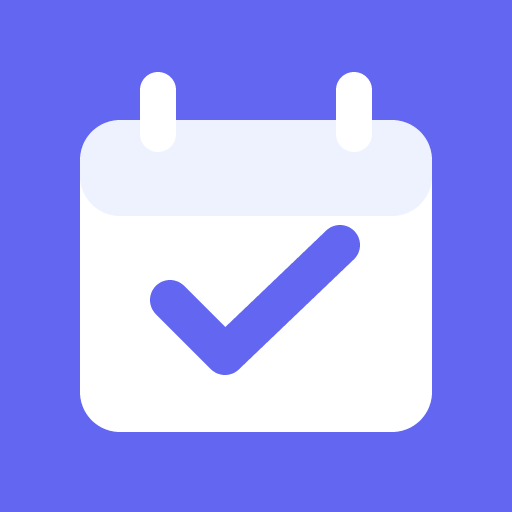
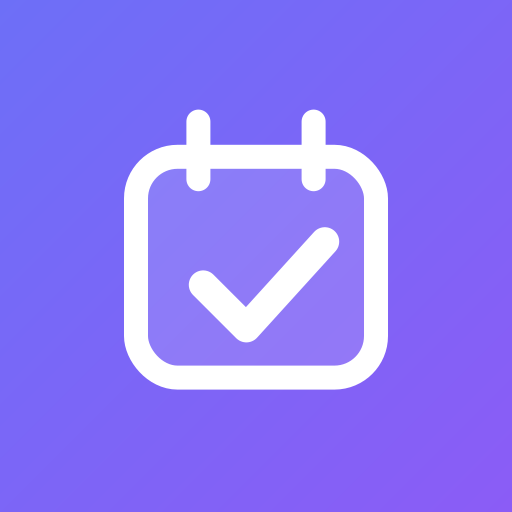
새 앱 아이콘 + UI 크롬 이모지 전수 교체 (#77)
앱 아이콘:
- 새 UI 톤에 맞춘 라인 스타일 재디자인 — 인디고→바이올렛 그라데이션
  배경 + 스트로크 캘린더 + 체크마크
- icon.svg 교체, icon-192/512/512-maskable PNG 재생성
  (마스커블은 안전영역 80% 준수)

이모지 → SVG 아이콘 (심볼 3종 추가: skip/eye-off/check):
- 태스크 트레이 메뉴 7종(포모도로/수정/이동/미루기/댓글/팀등록/삭제)
- 태스크 ⋯ 버튼, 메모 버튼, 수락/거절, 복구, 날짜 선택
- 메모장(스티키 노트) 버튼 8종, 메모장 메뉴 3종
- 공유 보는중/숨김, ICS 새로고침/가져오기, 팀 모달·구독 토글
- 대시보드 패널 제목 4종, 시간 미지정, 태그바
- 유지: 상태 피드백(✅⏳❌⚠), 날씨, 축하, 휴무일 🏖 등 표현용

Claude-Session: https://claude.ai/code/session_016onr4BnF2RkRCxVgr7Rsj4

diff --git a/app.js b/app.js
@@ -245,7 +245,7 @@ if (!USER_ID) {
     });
   };
   document.getElementById('switchUserBtn').style.display = 'flex';
-  document.getElementById('switchUserBtn').innerHTML = '↩ <span>내 캘린더로</span>';
+  document.getElementById('switchUserBtn').innerHTML = '<svg class="ic" width="14" height="14"><use href="#i-switch"/></svg> <span>내 캘린더로</span>';
   document.getElementById('switchUserBtn').onclick = () => {
     const last = localStorage.getItem('lastUser');
     window.location.href = window.location.pathname + (last ? `?u=${encodeURIComponent(last)}` : '');
@@ -1052,7 +1052,7 @@ function renderTrashModal(){
     info.appendChild(el('div','trash-meta',{textContent:`${d.getMonth()+1}/${d.getDate()} 삭제 · ${daysLeft}일 후 사라져요`}));
     row.appendChild(info);
     const actions=el('div','trash-actions');
-    const restoreBtn=el('button','trash-act-btn',{textContent:'↩ 복구'});
+    const restoreBtn=el('button','trash-act-btn',{innerHTML:'<svg class="ic" width="12" height="12"><use href="#i-switch"/></svg> 복구'});
     restoreBtn.onclick=()=>restoreFromTrash(item.id);
     const delBtn=el('button','trash-act-btn del',{textContent:'✕'});
     delBtn.onclick=()=>{ if(confirm('영구 삭제할까요?')) permanentDeleteTrash(item.id); };
@@ -1111,7 +1111,7 @@ function moveRepeatInstanceOne(originDk, taskId, instanceDk, toDk){
 // 반복 일정 이동 범위 묻기: 'one'(이 회차만) / 'all'(전체 시작일 변경) / null(취소)
 function askRepeatMoveScope(cb){
   const ov=el('div','modal-overlay'); const box=el('div','modal-box'); box.style.maxWidth='320px';
-  box.appendChild(el('div','modal-title',{textContent:'🔄 반복 일정 이동'}));
+  box.appendChild(el('div','modal-title',{innerHTML:'<svg class="ic" width="15" height="15"><use href="#i-repeat"/></svg> 반복 일정 이동'}));
   box.appendChild(el('div','',{textContent:'이 회차만 옮길까요, 반복 전체를 옮길까요?',style:'font-size:13px;color:var(--text2);margin-bottom:12px'}));
   const mk=(label,sub,fn,primary)=>{ const b=el('button',primary?'btn-primary':'btn-secondary',{type:'button'}); b.style.cssText='width:100%;margin-bottom:8px;text-align:left;padding:10px 12px'; b.appendChild(el('div','',{textContent:label,style:'font-weight:600'})); b.appendChild(el('div','',{textContent:sub,style:'font-size:11px;opacity:.8;margin-top:2px'})); b.onclick=()=>{ov.remove();fn();}; return b; };
   box.appendChild(mk('이 회차만 이동','선택한 날짜에 단발 일정으로 (반복은 유지)',()=>cb('one'),true));
@@ -1166,7 +1166,7 @@ function openMovePopup(anchor, fromDk, taskId, repCtx){
     if(!inp.value) return;
     commit(inp.value);
   };
-  pickBtn.appendChild(el('span',null,{textContent:'🗓'}));
+  const _pi=el('span'); _pi.innerHTML='<svg class="ic" width="13" height="13"><use href="#i-calendar"/></svg>'; pickBtn.appendChild(_pi);
   pickBtn.appendChild(el('span',null,{textContent:'날짜 선택'}));
   pickBtn.appendChild(inp);
   pickBtn.onclick=e=>{e.stopPropagation();inp.showPicker&&inp.showPicker();};
@@ -2040,7 +2040,7 @@ function buildTaskItem(dk,task,isSub,parentId,isRepeatInst,originDk,instanceDk,a
   textWrap.appendChild(txt);
   if(!isSub){
     const hasMemo=!!(task.memo&&task.memo.trim());
-    const memoBtn=el('span',`memo-icon-btn${hasMemo?' has':''}`,{textContent:'📝',title:hasMemo?'메모 보기/편집':'메모 추가'});
+    const memoBtn=el('span',`memo-icon-btn${hasMemo?' has':''}`,{title:hasMemo?'메모 보기/편집':'메모 추가'}); memoBtn.innerHTML='<svg class="ic" width="13" height="13"><use href="#i-note"/></svg>';
     memoBtn.setAttribute('role','button'); memoBtn.tabIndex=0;
     const openMemoH=e=>{e.stopPropagation();openMemo(isRepeatInst?originDk:dk,task.id,memoBtn);};
     memoBtn.onclick=openMemoH; addKbd(memoBtn,openMemoH);
@@ -2090,9 +2090,9 @@ function buildTaskItem(dk,task,isSub,parentId,isRepeatInst,originDk,instanceDk,a
     body.appendChild(el('div','from-badge',{textContent:'👤 '+task.from+'님이 보냄'}));
     if(task.pending&&!READ_ONLY){
       const ar=el('div','accept-row');
-      const ok=el('button','accept-btn',{textContent:'✅ 수락'});
+      const ok=el('button','accept-btn',{innerHTML:'<svg class="ic" width="12" height="12"><use href="#i-check"/></svg> 수락'});
       ok.onclick=e=>{e.stopPropagation();acceptTask(dk,task.id);};
-      const no=el('button','reject-btn',{textContent:'🚫 거절'});
+      const no=el('button','reject-btn',{innerHTML:'<svg class="ic" width="12" height="12"><use href="#i-x"/></svg> 거절'});
       no.onclick=e=>{e.stopPropagation();rejectTask(dk,task.id);};
       ar.appendChild(ok); ar.appendChild(no); body.appendChild(ar);
     }
@@ -2142,27 +2142,27 @@ function buildTaskItem(dk,task,isSub,parentId,isRepeatInst,originDk,instanceDk,a
 
   // 상위 항목: 기능 아이콘들을 ⋯ 트레이(드롭다운)로 모아 가로 공간 확보
   const actionsWrap=el('div','task-actions-wrap');
-  const moreBtn=el('button','task-more-btn',{textContent:'⋯',title:'작업 메뉴'});
+  const moreBtn=el('button','task-more-btn',{title:'작업 메뉴'}); moreBtn.innerHTML='<svg class="ic" width="15" height="15"><use href="#i-more"/></svg>';
   moreBtn.setAttribute('aria-label','작업 메뉴 열기');
   const tray=el('div','task-actions-tray hidden');
   const closeTray=()=>tray.classList.add('hidden');
   const trayItem=(icon,label,extraCls,handler)=>{
     const b=el('button',`tray-item${extraCls?' '+extraCls:''}`,{type:'button'});
-    b.appendChild(el('span','tray-ico',{textContent:icon}));
+    const _ti=el('span','tray-ico'); _ti.innerHTML=`<svg class="ic" width="14" height="14"><use href="#i-${icon}"/></svg>`; b.appendChild(_ti);
     b.appendChild(el('span',null,{textContent:label}));
     b.onclick=e=>{e.stopPropagation();closeTray();handler(e);};
     tray.appendChild(b);
     return b;
   };
-  trayItem('🍅','포모도로 시작',null,()=>startPomodoroForTask(task.text));
-  trayItem('✏','수정',null,()=>openEdit(dk,task,isRepeatInst,originDk));
-  trayItem('📅','다른 날짜로 이동',null,()=>{
+  trayItem('timer','포모도로 시작',null,()=>startPomodoroForTask(task.text));
+  trayItem('pencil','수정',null,()=>openEdit(dk,task,isRepeatInst,originDk));
+  trayItem('calendar','다른 날짜로 이동',null,()=>{
     openMovePopup(actionsWrap, dk, task.id, isRepeatInst?{isRepeatInst:true, originDk, instanceDk}:null);
   });
-  if(!isRepeatInst) trayItem('⏭','다음 영업일로 미루기',null,()=>postponeTask(dk,task.id));
-  trayItem('💬','댓글',null,()=>openComments(dk,task.id,isRepeatInst,originDk));
-  if(!IS_TEAM && fbDb) trayItem('🤝','팀에 등록',null,()=>registerTaskToTeam(dk,task,isRepeatInst,originDk));
-  trayItem('✕','삭제','del',()=>{
+  if(!isRepeatInst) trayItem('skip','다음 영업일로 미루기',null,()=>postponeTask(dk,task.id));
+  trayItem('msg','댓글',null,()=>openComments(dk,task.id,isRepeatInst,originDk));
+  if(!IS_TEAM && fbDb) trayItem('users','팀에 등록',null,()=>registerTaskToTeam(dk,task,isRepeatInst,originDk));
+  trayItem('x','삭제','del',()=>{
     if(isRepeatInst||(task.repeat&&task.repeat!=='none')){
       openRepeatDel(isRepeatInst?originDk:dk, task.id, dk);
     } else if(confirm('삭제할까요?')) {
@@ -2530,7 +2530,7 @@ function buildTimeblockView(){
   // 시간 미지정 항목
   if(untimed.length){
     const ut=el('div','tb-untimed');
-    ut.appendChild(el('div','tb-untimed-title',{textContent:'🕒 시간 미지정'}));
+    ut.appendChild(el('div','tb-untimed-title',{innerHTML:'<svg class="ic" width="12" height="12"><use href="#i-clock"/></svg> 시간 미지정'}));
     const ul=el('div','tasks-list');
     untimed.forEach(({t,isRepeat,originDk,instanceDk})=>ul.appendChild(buildTaskItem(dk,t,false,null,isRepeat,originDk,instanceDk)));
     ut.appendChild(ul);
@@ -2875,7 +2875,7 @@ function buildTagFilterBar(){
   }
   // 태그 칩 (태그가 있을 때만)
   if(tags.length){
-    bar.appendChild(el('span','',{textContent:'🏷',style:'font-size:12px;margin-left:6px'}));
+    const _tg=el('span','',{style:'margin-left:6px;color:var(--text3)'}); _tg.innerHTML='<svg class="ic" width="12" height="12"><use href="#i-tag"/></svg>'; bar.appendChild(_tg);
     const allChip = el('button', `tag-filter-chip${tagFilter ? '' : ' active'}`, {textContent: '전체'});
     allChip.onclick = () => { tagFilter = null; render(); };
     bar.appendChild(allChip);
@@ -4242,14 +4242,14 @@ function buildNoteWin(m) {
     crumb.onclick = e => { e.stopPropagation(); navigateNote(m.id, m.parentId); };
     head.appendChild(crumb);
   } else {
-    head.appendChild(el('span', 'memo-icon', {textContent: '📝'}));
+    const _mi=el('span','memo-icon'); _mi.innerHTML='<svg class="ic" width="15" height="15"><use href="#i-note"/></svg>'; head.appendChild(_mi);
   }
   const title = el('input', 'note-title-input');
   title.type = 'text'; title.placeholder = '제목'; title.value = m.title; title.readOnly = READ_ONLY;
   title.addEventListener('input', () => { m.title = title.value; clearTimeout(_noteTitleTimer); _noteTitleTimer = setTimeout(saveMemos, 400); });
   head.appendChild(title);
   if (!READ_ONLY) {
-    const colorBtn = el('button', 'note-btn', {textContent: '🎨', title: '색상 변경'});
+    const colorBtn = el('button','note-btn',{innerHTML:'<svg class="ic" width="13" height="13"><use href="#i-palette"/></svg>',title:'색상 변경'});
     colorBtn.onclick = e => {
       e.stopPropagation();
       const i = NOTE_COLORS.indexOf(m.color);
@@ -4258,7 +4258,7 @@ function buildNoteWin(m) {
       saveMemos();
     };
     head.appendChild(colorBtn);
-    const pinBtn = el('button', `note-btn${m.pinned?' pinned':''}`, {textContent: '📌', title: m.pinned?'고정 해제':'항상 위 고정'});
+    const pinBtn = el('button',`note-btn${m.pinned?' pinned':''}`,{innerHTML:'<svg class="ic" width="13" height="13"><use href="#i-pin"/></svg>',title:m.pinned?'고정 해제':'항상 위 고정'});
     pinBtn.onclick = e => {
       e.stopPropagation();
       m.pinned = !m.pinned;
@@ -4268,11 +4268,11 @@ function buildNoteWin(m) {
     };
     head.appendChild(pinBtn);
   }
-  const histBtn = el('button', 'note-btn', {textContent: '🕘', title: '버전 이력'});
+  const histBtn = el('button','note-btn',{innerHTML:'<svg class="ic" width="13" height="13"><use href="#i-history"/></svg>',title:'버전 이력'});
   histBtn.onclick = e => { e.stopPropagation(); openNoteHist(m); };
   head.appendChild(histBtn);
   if (!READ_ONLY) {
-    const delBtn = el('button', 'note-btn del', {textContent: '🗑', title: '메모 삭제 (하위 포함)'});
+    const delBtn = el('button','note-btn del',{innerHTML:'<svg class="ic" width="13" height="13"><use href="#i-trash"/></svg>',title:'메모 삭제 (하위 포함)'});
     delBtn.onclick = e => { e.stopPropagation(); deleteMemoTree(m.id); };
     head.appendChild(delBtn);
   }
@@ -4339,7 +4339,7 @@ function buildNoteWin(m) {
     }
     kids.forEach(c => {
       const row = el('div', 'note-child');
-      row.appendChild(el('span', '', {textContent: '📄'}));
+      const _di=el('span'); _di.innerHTML='<svg class="ic" width="12" height="12"><use href="#i-note"/></svg>'; row.appendChild(_di);
       row.appendChild(el('span', 'note-child-title', {textContent: memoLabel(c) + (memoChildren(c.id).length ? ` (${memoChildren(c.id).length})` : '')}));
       row.onclick = () => navigateNote(m.id, c.id);
       if (!READ_ONLY) {
@@ -4789,16 +4789,16 @@ const notesMenu = document.getElementById('notesMenu');
 function renderNotesMenu() {
   notesMenu.innerHTML = '';
   if (!READ_ONLY) {
-    const add = el('button', 'more-menu-item', {textContent: '➕ 새 메모'});
+    const add = el('button', 'more-menu-item', {innerHTML:'<svg class="ic" width="14" height="14"><use href="#i-plus"/></svg> 새 메모'});
     add.setAttribute('role', 'menuitem');
     add.onclick = () => { notesMenu.classList.add('hidden'); createMemo(null); };
     notesMenu.appendChild(add);
   }
-  const canvasBtn = el('button', 'more-menu-item', {textContent: '🗺 캔버스 보기 (전체 배치)'});
+  const canvasBtn = el('button', 'more-menu-item', {innerHTML:'<svg class="ic" width="14" height="14"><use href="#i-grid"/></svg> 캔버스 보기 (전체 배치)'});
   canvasBtn.setAttribute('role', 'menuitem');
   canvasBtn.onclick = () => { notesMenu.classList.add('hidden'); openCanvas(); };
   notesMenu.appendChild(canvasBtn);
-  const mdBtn = el('button', 'more-menu-item', {textContent: '📤 마크다운 내보내기'});
+  const mdBtn = el('button', 'more-menu-item', {innerHTML:'<svg class="ic" width="14" height="14"><use href="#i-upload"/></svg> 마크다운 내보내기'});
   mdBtn.setAttribute('role', 'menuitem');
   mdBtn.onclick = () => { notesMenu.classList.add('hidden'); exportNotesMd(); };
   notesMenu.appendChild(mdBtn);
@@ -4952,7 +4952,7 @@ function renderShareList() {
     };
     row.appendChild(dot);
     row.appendChild(el('span', 'share-name', {textContent: '👤 ' + id}));
-    const toggle = el('button', `share-toggle${s.on ? ' on' : ''}`, {textContent: s.on ? '👁 보는 중' : '🚫 숨김'});
+    const toggle = el('button', `share-toggle${s.on ? ' on' : ''}`, {innerHTML: s.on ? '<svg class="ic" width="12" height="12"><use href="#i-eye"/></svg> 보는 중' : '<svg class="ic" width="12" height="12"><use href="#i-eye-off"/></svg> 숨김'});
     toggle.onclick = () => { s.on = !s.on; saveShares(); attachShareListeners(); renderShareList(); render(); };
     row.appendChild(toggle);
     const del = el('button', 'task-act-btn del', {textContent: '✕', title: '공유 제거'});
@@ -5402,11 +5402,11 @@ function renderIcsList() {
     info.appendChild(el('div','share-name',{textContent:sub.name}));
     info.appendChild(el('div','goal-meta',{textContent:`${(sub.events||[]).length}개 일정`}));
     row.appendChild(info);
-    const toggle = el('button',`share-toggle${sub.on?' on':''}`,{textContent:sub.on?'👁 보는 중':'🚫 숨김'});
+    const toggle = el('button',`share-toggle${sub.on?' on':''}`,{innerHTML:sub.on?'<svg class="ic" width="12" height="12"><use href="#i-eye"/></svg> 보는 중':'<svg class="ic" width="12" height="12"><use href="#i-eye-off"/></svg> 숨김'});
     toggle.onclick=()=>{ sub.on=!sub.on; saveIcsSubs(); rebuildIcsEvents(); renderIcsList(); render(); };
     row.appendChild(toggle);
     if (sub.url) {
-      const refresh = el('button','task-act-btn',{textContent:'🔄',title:'새로고침'});
+      const refresh = el('button','task-act-btn',{innerHTML:'<svg class="ic" width="12" height="12"><use href="#i-repeat"/></svg>',title:'새로고침'});
       refresh.onclick=async()=>{ refresh.textContent='⏳'; const txt=await fetchIcsUrl(sub.url); if(txt){sub.events=parseICS(txt,sub.name);saveIcsSubs();rebuildIcsEvents();render();showUndoToast('🔄 캘린더를 새로고침했어요');} else showUndoToast('⚠ 불러오기 실패'); renderIcsList(); };
       row.appendChild(refresh);
     }
@@ -5604,7 +5604,7 @@ function toggleTeamSub(id, name){
 function pickTeamForRegister(cb){
   const subs=Object.keys(teamSubs).map(id=>({id, name:(teamSubs[id].name||id)}));
   const ov=el('div','modal-overlay'); const box=el('div','modal-box'); box.style.maxWidth='320px';
-  box.appendChild(el('div','modal-title',{textContent:'🤝 어느 팀에 등록할까요?'}));
+  box.appendChild(el('div','modal-title',{innerHTML:'<svg class="ic" width="15" height="15"><use href="#i-users"/></svg> 어느 팀에 등록할까요?'}));
   const list=el('div',null); list.style.cssText='display:flex;flex-direction:column;gap:6px;margin:8px 0;max-height:40vh;overflow-y:auto';
   if(!subs.length) list.appendChild(el('div','',{textContent:'구독한 팀이 없어요. 아래에 팀 이름을 입력하세요.',style:'font-size:12px;color:var(--text3)'}));
   subs.forEach(t=>{ const b=el('button','team-pick-name',{type:'button',textContent:'🤝 '+t.name}); b.onclick=()=>{ ov.remove(); cb(t.id); }; list.appendChild(b); });
@@ -5661,7 +5661,7 @@ function openTeamPicker(){
   const old=document.getElementById('teamPickerOv'); if(old) old.remove();
   const ov=el('div','modal-overlay'); ov.id='teamPickerOv';
   const box=el('div','modal-box'); box.style.maxWidth='340px';
-  box.appendChild(el('div','modal-title',{textContent:'🤝 팀 캘린더'}));
+  box.appendChild(el('div','modal-title',{innerHTML:'<svg class="ic" width="15" height="15"><use href="#i-users"/></svg> 팀 캘린더'}));
   box.appendChild(el('div','',{textContent:'팀 이름을 눌러 들어가거나, 구독하면 내 캘린더에서 그 팀 일정을 함께 봐요.',style:'font-size:11px;color:var(--text3);margin-bottom:8px'}));
   const loading=el('div','',{textContent:'불러오는 중…',style:'font-size:12px;color:var(--text3)'});
   const listWrap=el('div',null); listWrap.style.cssText='max-height:42vh;overflow-y:auto;display:flex;flex-direction:column;gap:6px;margin-bottom:10px';
@@ -5733,11 +5733,11 @@ if (IS_TEAM) {
   const tb=document.getElementById('teamBtn');
   if (tb && tb.parentNode) {
     const subItem=document.createElement('button'); subItem.className='more-menu-item'; subItem.id='teamSubBtn';
-    const refresh=()=>{ subItem.innerHTML = teamSubs[_tid] ? '🔕 <span>이 팀 구독취소</span>' : '🔔 <span>이 팀 구독</span>'; };
+    const refresh=()=>{ subItem.innerHTML = teamSubs[_tid] ? '<svg class="ic" width="14" height="14"><use href="#i-bell-off"/></svg> <span>이 팀 구독취소</span>' : '<svg class="ic" width="14" height="14"><use href="#i-bell"/></svg> <span>이 팀 구독</span>'; };
     refresh();
     subItem.onclick=()=>{ const on=toggleTeamSub(_tid,_rawTeam); refresh(); showUndoToast(on?'구독했어요 — 내 캘린더에서 이 팀 일정을 함께 봐요(곧 적용)':'구독을 취소했어요'); };
     tb.parentNode.insertBefore(subItem, tb);
-    tb.innerHTML = '↩ <span>내 캘린더로</span>';
+    tb.innerHTML = '<svg class="ic" width="14" height="14"><use href="#i-switch"/></svg> <span>내 캘린더로</span>';
   }
 }
 
@@ -5941,7 +5941,7 @@ function getImportantUpcoming(){
 function buildDashStats(){
   const panel = document.getElementById('dashStats');
   panel.innerHTML = '';
-  const title = document.createElement('div'); title.className='dash-panel-title'; title.textContent='📊 이번 주 업무 현황';
+  const title = document.createElement('div'); title.className='dash-panel-title'; title.innerHTML='<svg class="ic" width="13" height="13"><use href="#i-gantt"/></svg> 이번 주 업무 현황';
   panel.appendChild(title);
 
   // stat boxes
@@ -6010,7 +6010,7 @@ function buildDashStats(){
   if(important.length){
     const ddTitle=document.createElement('div'); ddTitle.className='dash-panel-title';
     ddTitle.style.cssText='margin-top:14px;margin-bottom:6px';
-    ddTitle.textContent='⭐ 다가오는 중요 일정';
+    ddTitle.innerHTML='<svg class="ic" width="13" height="13"><use href="#i-star"/></svg> 다가오는 중요 일정';
     panel.appendChild(ddTitle);
     const ddList=document.createElement('div'); ddList.className='upcoming-list';
     important.forEach(it=>{
@@ -6107,7 +6107,7 @@ function buildDashCalendar(){
   });
   upcomingTodo.sort((a,b)=>a.dk<b.dk?-1:a.dk>b.dk?1:0);
   const histTitle=document.createElement('div'); histTitle.className='dash-panel-title'; histTitle.style.marginBottom='6px';
-  histTitle.textContent='📋 앞으로 해야 할 일';
+  histTitle.innerHTML='<svg class="ic" width="13" height="13"><use href="#i-clipboard"/></svg> 앞으로 해야 할 일';
   panel.appendChild(histTitle);
   if(upcomingTodo.length){
     const list=document.createElement('div'); list.className='upcoming-list';
@@ -6142,7 +6142,7 @@ function buildDashCalendar(){
   if(sheetEvts.length){
     const sTitle=document.createElement('div'); sTitle.className='dash-panel-title';
     sTitle.style.cssText='margin-top:14px;margin-bottom:6px';
-    sTitle.textContent='🏬 전관행사 일정';
+    sTitle.innerHTML='<svg class="ic" width="13" height="13"><use href="#i-flag"/></svg> 전관행사 일정';
     panel.appendChild(sTitle);
     const list=document.createElement('div'); list.className='upcoming-list';
     sheetEvts.slice(0,8).forEach(e=>{
@@ -6318,7 +6318,7 @@ async function syncSheetEvents(manual=false){
   }catch(e){
     if(syncBtn){
       syncBtn.disabled=false; syncBtn.textContent=`⚠ 실패`;
-      setTimeout(()=>{ if(syncBtn.isConnected) syncBtn.textContent='📥 지금 가져오기'; },4000);
+      setTimeout(()=>{ if(syncBtn.isConnected) syncBtn.innerHTML='<svg class="ic" width="12" height="12"><use href="#i-download"/></svg> 지금 가져오기'; },4000);
     }
     if(manual) alert('시트를 가져오지 못했어요.\n\n1) 구글시트가 "링크가 있는 모든 사용자"로 공개되어 있는지 확인해 주세요.\n2) 잠시 후 다시 시도해 주세요.');
     console.warn('Sheet sync error:',e);

diff --git a/index.html b/index.html
@@ -87,6 +87,9 @@
     <symbol id="i-mouse" viewBox="0 0 24 24" fill="none" stroke="currentColor" stroke-width="2" stroke-linecap="round" stroke-linejoin="round"><rect x="6" y="3" width="12" height="18" rx="6"/><path d="M12 7v4"/></symbol>
     <symbol id="i-sunrise" viewBox="0 0 24 24" fill="none" stroke="currentColor" stroke-width="2" stroke-linecap="round" stroke-linejoin="round"><path d="M12 10V4"/><path d="m8 8 4-4 4 4"/><path d="M4 18h16"/><path d="M6 22h12"/><path d="M17 14a5 5 0 0 0-10 0"/></symbol>
     <symbol id="i-square" viewBox="0 0 24 24" fill="none" stroke="currentColor" stroke-width="2" stroke-linecap="round" stroke-linejoin="round"><rect x="3" y="3" width="18" height="18" rx="2"/></symbol>
+    <symbol id="i-skip" viewBox="0 0 24 24" fill="none" stroke="currentColor" stroke-width="2" stroke-linecap="round" stroke-linejoin="round"><path d="m5 4 10 8-10 8V4z"/><path d="M19 5v14"/></symbol>
+    <symbol id="i-eye-off" viewBox="0 0 24 24" fill="none" stroke="currentColor" stroke-width="2" stroke-linecap="round" stroke-linejoin="round"><path d="M2 12s3-7 10-7 10 7 10 7-3 7-10 7-10-7-10-7Z"/><circle cx="12" cy="12" r="3"/><path d="m3 3 18 18"/></symbol>
+    <symbol id="i-check" viewBox="0 0 24 24" fill="none" stroke="currentColor" stroke-width="2" stroke-linecap="round" stroke-linejoin="round"><path d="M20 6 9 17l-5-5"/></symbol>
   </defs>
 </svg>
 
